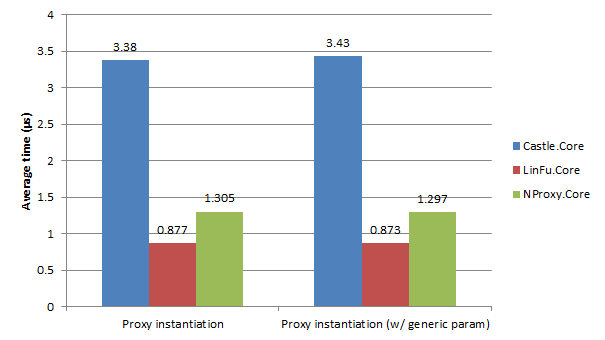
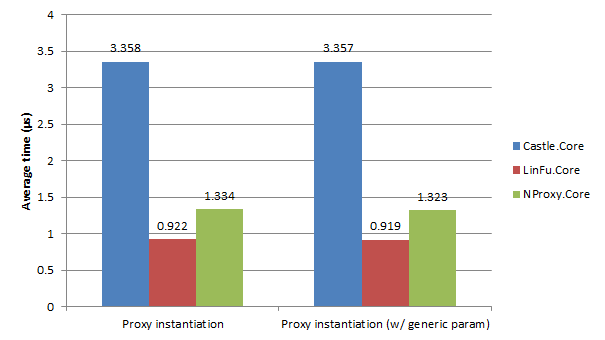
Updated benchmarks.

diff --git a/Documentation/Benchmark_20140221_094332.md b/Documentation/Benchmark_20140221_094332.md
@@ -1,0 +1,22 @@
+| Type      | Version | Scenario                             | Iterations | Total time in ms | Average time in µs |
+|:----------|--------:|:-------------------------------------|-----------:|-----------------:|-------------------:|
+|Castle.Core|    v 3.2|Method invocation                     |    10000000|           630.031|               0.063|
+|Castle.Core|    v 3.2|Method invocation (w/ generic param)  |    10000000|         10699.253|               1.070|
+|Castle.Core|    v 3.2|Proxy generation                      |        1000|          2829.769|            2829.769|
+|Castle.Core|    v 3.2|Proxy generation (w/ generic param)   |        1000|          2686.184|            2686.184|
+|Castle.Core|    v 3.2|Proxy instantiation                   |     1000000|          3358.441|               3.358|
+|Castle.Core|    v 3.2|Proxy instantiation (w/ generic param)|     1000000|          3356.702|               3.357|
+|LinFu.Core |    v 2.3|Method invocation                     |    10000000|         12589.556|               1.259|
+|LinFu.Core |    v 2.3|Method invocation (w/ generic param)  |    10000000|         47086.966|               4.709|
+|LinFu.Core |    v 2.3|Proxy generation                      |        1000|          3318.705|            3318.705|
+|LinFu.Core |    v 2.3|Proxy generation (w/ generic param)   |        1000|          3652.119|            3652.119|
+|LinFu.Core |    v 2.3|Proxy instantiation                   |     1000000|           921.531|               0.922|
+|LinFu.Core |    v 2.3|Proxy instantiation (w/ generic param)|     1000000|           918.563|               0.919|
+|NProxy.Core|    v 2.2|Method invocation                     |    10000000|           641.273|               0.064|
+|NProxy.Core|    v 2.2|Method invocation (w/ generic param)  |    10000000|           817.850|               0.082|
+|NProxy.Core|    v 2.2|Proxy generation                      |        1000|          1072.426|            1072.426|
+|NProxy.Core|    v 2.2|Proxy generation (w/ generic param)   |        1000|          1100.371|            1100.371|
+|NProxy.Core|    v 2.2|Proxy instantiation                   |     1000000|          1333.968|               1.334|
+|NProxy.Core|    v 2.2|Proxy instantiation (w/ generic param)|     1000000|          1323.382|               1.323|
+|Regular    |      n/a|Method invocation                     |   100000000|           243.422|               0.002|
+|Regular    |      n/a|Method invocation (w/ generic param)  |   100000000|          1077.018|               0.011|

diff --git a/Documentation/BENCHMARKS.md b/Documentation/BENCHMARKS.md
@@ -38,7 +38,7 @@ the values in microseconds for this scenario.
 
 ![Method invocation performance](https://raw.github.com/mtamme/NProxy/master/Documentation/MethodInvocation.png "Method invocation performance")
 
-Details to the performed tests can be found [here](https://github.com/mtamme/NProxy/tree/master/Documentation/Benchmark_20140113_120411.md).
+Details to the performed tests can be found [here](https://github.com/mtamme/NProxy/tree/master/Documentation/Benchmark_20140221_094332.md).
 All tests have been performed under Microsoft .NET 4.0.30319 and can be found [here](https://github.com/mtamme/NProxy/tree/master/Source/Test/NProxy.Core.Benchmark/).
 
 ## Conclusion
